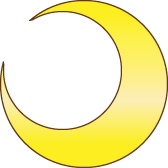
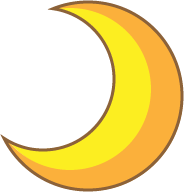
1. Change to Angular Material 2. Modify img 3. Beautify form

diff --git a/frontend/src/app/weddingform/weddingform.component.html b/frontend/src/app/weddingform/weddingform.component.html
@@ -1,22 +1,26 @@
 <div class="wedding-form">
+  <div class="sun"></div>
   <form [formGroup]="weddingForm" (ngSubmit)="submitForm()">
     <!-- {{weddingForm.value | json }} -->
-    <h2>璟鴻與毓柔婚宴出席調查</h2>
+    <h2 class="title">婚宴出席調查</h2>
 
     <div>
-      <mat-form-field class="example-full-width">
+      <mat-form-field class="input-width">
         <input matInput placeholder="請填姓名(全名)" formControlName="name">
         <mat-error *ngIf="!weddingForm.get('name').valid && weddingForm.get('name').touched">'請填寫姓名(全名)'</mat-error>
       </mat-form-field>
     </div>
+
+    <div class="letter" *ngIf="_hasMessage">{{_nameBonusMessage}}</div>
+
     <div>
-      <mat-form-field class="example-full-width">
+      <mat-form-field class="input-width">
         <input matInput placeholder="請填連絡電話" formControlName="phone">
         <mat-error *ngIf="!weddingForm.get('phone').valid && weddingForm.get('phone').touched">'請填連絡電話'</mat-error>
       </mat-form-field>
     </div>
     <div>
-      <mat-form-field>
+      <mat-form-field class="input-width">
         <mat-select placeholder="哪方親友" formControlName="known_from">
           <mat-option [value]="'male'">男方親友</mat-option>
           <mat-option [value]="'female'">女方親友</mat-option>
@@ -26,7 +30,7 @@
     </div>
 
     <div>
-      <mat-form-field>
+      <mat-form-field class="input-width">
         <mat-select placeholder="出席狀態" formControlName="attend">
           <mat-option [value]="'taipei'">台北場 3/24</mat-option>
           <mat-option [value]="'chaiyi'">嘉義場 4/21</mat-option>
@@ -39,7 +43,7 @@
     </div>
 
     <div>
-      <mat-form-field>
+      <mat-form-field class="input-width">
         <mat-select placeholder="出席人數" formControlName="number_of_people">
           <mat-option *ngFor="let numAttend of numAttends" [value]="numAttend">
             {{numAttend}}
@@ -50,10 +54,10 @@
     </div>
 
     <div>
-      <mat-form-field>
+      <mat-form-field class="input-width">
         <mat-select placeholder="有幾位吃素" formControlName="number_of_vegetarian">
-          <mat-option *ngFor="let numAttend of numAttends" [value]="numAttend">
-            {{numAttend}}
+          <mat-option *ngFor="let numVeg of numVegs" [value]="numVeg">
+            {{numVeg}}
           </mat-option>
         </mat-select>
         <mat-error *ngIf="!weddingForm.get('number_of_vegetarian').valid && weddingForm.get('number_of_vegetarian').touched">請選擇任一項</mat-error>
@@ -61,40 +65,42 @@
     </div>
 
     <div>
-      <mat-form-field>
+      <mat-form-field class="input-width">
         <mat-select placeholder="兒童座椅數量" formControlName="number_of_baby_seat">
-          <mat-option *ngFor="let numAttend of numAttends" [value]="numAttend">
-            {{numAttend}}
+          <mat-option *ngFor="let numBaby of numBabys" [value]="numBaby">
+            {{numBaby}}
           </mat-option>
         </mat-select>
         <mat-error *ngIf="!weddingForm.get('number_of_baby_seat').valid && weddingForm.get('number_of_baby_seat').touched">請選擇任一項</mat-error>
       </mat-form-field>
     </div>
 
-    <div class="required field-area">
-      <label>喜帖方式：</label>
-      <span class="radio-group">
-        <label><input type="radio" name="invitation" value="email" (click)="setInvitation('email')" checked>電子喜帖</label>
-        <label><input type="radio" name="invitation" value="address" (click)="setInvitation('address')">紙本喜帖</label>
-        <label><input type="radio" name="invitation" value="sendBoth" (click)="setInvitation('sendBoth')">兩種都要</label>
-      </span>
-    </div>
-
     <div>
-      <mat-form-field class="example-full-width">
+        <mat-form-field class="input-width">
+          <mat-select placeholder="喜帖型式" formControlName="way">
+            <mat-option [value]="'email'">電子喜帖</mat-option>
+            <mat-option [value]="'address'">紙本喜帖</mat-option>
+            <mat-option [value]="'sendBoth'">兩種都要</mat-option>
+          </mat-select>
+          <mat-error *ngIf="!weddingForm.get('way').valid && weddingForm.get('way').touched">請選擇任一項</mat-error>
+        </mat-form-field>
+      </div>
+
+    <div *ngIf="isShow('address')">
+      <mat-form-field class="input-width">
         <input matInput placeholder="請填喜帖地址" formControlName="address">
         <mat-error *ngIf="!weddingForm.get('address').valid && weddingForm.get('address').touched">'請填收帖地址'</mat-error>
       </mat-form-field>
     </div>
 
-    <div>
-      <mat-form-field class="example-full-width">
+    <div *ngIf="isShow('email')">
+      <mat-form-field class="input-width">
         <input matInput placeholder="請填E-mail" formControlName="email">
         <mat-error *ngIf="!weddingForm.get('email').valid && weddingForm.get('email').touched">'請填E-MAIL'</mat-error>
       </mat-form-field>
     </div>
 
-    <mat-form-field class="example-full-width">
+    <mat-form-field class="input-width">
       <textarea matInput placeholder="想跟毓柔和璟鴻說" class="note" formControlName="note"></textarea>
     </mat-form-field>
   </form>

diff --git a/frontend/src/styles.scss b/frontend/src/styles.scss
@@ -19,20 +19,31 @@ label {
   content: '*';
 }
 
-/* The container */
 
-.container__checkbox {
-  display: block;
+/* Loading dropdown animation */
+.loading-dropdown .select-wrapper .content{
   position: relative;
-  padding-left: 20px;
-  margin-bottom: 12px;
-  cursor: pointer;
+  &::after{
+    content: '';
+    position: absolute;
+    right: 45px;
+    top: 0;
+    width: 44px;
+    background-size: 44px 44px;
+    background-repeat: no-repeat;
+    background-position: 50% 50%;
+    background-image: url(/assets/img/spinner.gif);
+    height: 44px;
+    z-index: 2;
+  }
+}
+
+option {
   font-size: 14px;
-  font-family: Helvetica;
-  -webkit-user-select: none;
-  -moz-user-select: none;
-  -ms-user-select: none;
-  user-select: none;
+  line-height: 36px;
+  &:hover {
+    background-color: red;
+  }
 }
 
 
@@ -53,7 +64,6 @@ label {
 }
 
 /* Hide the browser's default radio button */
-
 .container__radio input[type=radio] {
   position: absolute;
   opacity: 0;
@@ -61,7 +71,6 @@ label {
 }
 
 /* Create a custom radio button */
-
 .checkmark__radio {
   position: absolute;
   top: 0;
@@ -99,11 +108,11 @@ label {
 
 .field-area {
     display: flex;
-    padding: 5px 0px;
+    height: 50px;
     font-size: 16px;
-    width: 100%;
-    justify-content: space-between;
+    width: 600px;
     align-content: center;
+    font-family: 'Diplomata SC', cursive;
   }
 
   .wedding-form{
@@ -112,24 +121,44 @@ label {
     align-items: center;
   }
 
+  .main-btn {
+    cursor: pointer;
+    color: white;
+    width: 160px;
+    height: 48px;
+    font-size: 16px;
+    font-weight: bold;
+    padding: 0.5rem;
+    margin: 0.2rem;
+    border: none;
+    background: $primary-color;
+    box-shadow: 2px 3px 1px rgb(230, 230, 230);
+    &:hover {
+        background: $primary-color--hover;
+    }
+    &:active {
+        box-shadow: 2px 0px 5px rgb(66, 65, 65) inset;
+        background: $primary-color--active;
+    }
+  }
+
   @media screen and (max-width:767px){
+    form{
+      display: flex;
+      flex-direction: column;
+      align-items: center;
+    }
+
+    h2{
+      margin-top: 100px;
+    }
+
     .field-area {
       font-size: 16px;
-      justify-content: space-between;
+      width: 85%;
     }
 
     label {
-      width: 46%;
-      min-width: 120px;
-    }
-    select, input:not([type=radio]):not([type=checkbox]) {
-      width: 40%;
-      min-width: 100px;
-    }
-    radio-group {
-      width: 50%;
-      label{
-        width: 110px;
-      }
+      width: 135px;
     }
  }

diff --git a/frontend/src/app/app.module.ts b/frontend/src/app/app.module.ts
@@ -1,4 +1,3 @@
-import { MatFormFieldModule } from '@angular/material/form-field';
 import { BrowserModule } from '@angular/platform-browser';
 import { NgModule } from '@angular/core';
 
@@ -8,34 +7,31 @@ import { ReactiveFormsModule, FormsModule } from '@angular/forms';
 import { WeddingphotoComponent } from './weddingphoto/weddingphoto.component';
 import { WeddingService } from './wedding.service';
 import { HttpClientModule } from '@angular/common/http';
-
 import {BrowserAnimationsModule} from '@angular/platform-browser/animations';
-import {MatCheckboxModule} from '@angular/material/checkbox';
-import {MatSelectModule} from '@angular/material/select';
+import {MatButtonModule, MatCheckboxModule} from '@angular/material';
 import {MatInputModule} from '@angular/material/input';
-import { ErrorStateMatcher, ShowOnDirtyErrorStateMatcher } from '@angular/material/core';
+import {MatSelectModule} from '@angular/material/select';
+import {MatFormFieldModule} from '@angular/material/form-field';
 
 @NgModule({
   declarations: [
     AppComponent,
     WeddingformComponent,
-    WeddingphotoComponent,
+    WeddingphotoComponent
   ],
   imports: [
     BrowserModule,
+    BrowserAnimationsModule,
     HttpClientModule,
     FormsModule,
     ReactiveFormsModule,
-    BrowserAnimationsModule,
-    MatFormFieldModule,
+    MatButtonModule,
     MatCheckboxModule,
     MatInputModule,
     MatSelectModule,
-
+    MatFormFieldModule
   ],
-  providers: [WeddingService ,
-    {provide: ErrorStateMatcher, useClass: ShowOnDirtyErrorStateMatcher}
-  ],
+  providers: [WeddingService],
   bootstrap: [AppComponent]
 })
 export class AppModule { }

diff --git a/frontend/src/app/weddingform/weddingform.component.ts b/frontend/src/app/weddingform/weddingform.component.ts
@@ -15,10 +15,11 @@ export class WeddingformComponent implements OnInit {
     private weddingService: WeddingService,
   ) { }
 
-  numAttends = [0, 1, 2, 3, 4, 5, 6, 7, 8, 9, 10];
+  numAttends = Array.from({length: 10}, (v, k) => k + 1);
+  numVegs =  Array.from({length: 5}, (v, k) => k );
+  numBabys =  Array.from({length: 5}, (v, k) => k );
   _hasMessage = false;
   _nameBonusMessage;
-  _invitation = 'email';
 
   weddingForm = this.fb.group({
     name: ['', Validators.required],
@@ -31,7 +32,8 @@ export class WeddingformComponent implements OnInit {
     phone: ['', Validators.required],
     address: '',
     email: '',
-    note: ''
+    note: '',
+    way: ['', Validators.required],
   });
 
 
@@ -65,17 +67,11 @@ export class WeddingformComponent implements OnInit {
     console.log();
   }
 
-  setInvitation(invitation) {
-    this._invitation = invitation;
-    if (invitation === 'address') {
-      this.weddingForm.get('phone').reset();
-    } else if (invitation === 'phone') {
-      this.weddingForm.get('address').reset();
-    }
-  }
 
-  isShow(invitation) {
-    if (this._invitation === 'sendBoth' || this._invitation === invitation) {
+  isShow(invitationWay) {
+    console.log(invitationWay);
+    const way = this.weddingForm.get('way').value;
+    if (way === 'sendBoth' || way === invitationWay) {
       return true;
     } else {
       return false;

diff --git a/frontend/src/app/weddingform/weddingform.component.scss b/frontend/src/app/weddingform/weddingform.component.scss
@@ -1,5 +1,5 @@
 @import "src/styles.scss";
-$form-border:3px solid rgb(235, 218, 72);
+$form-border:3px solid #ad8b63;
 
 .letter {
   position: relative;
@@ -10,18 +10,29 @@ $form-border:3px solid rgb(235, 218, 72);
     margin: 0px 35px 15px 15px;
 }
 
-.full-width{
+.input-width{
   width: 95%;
 }
 
 
 form {
   border: $form-border;
+  box-shadow: 0px 0px 20px #65472b inset;
   border-radius: 15px;
   padding: 25px 15px 95px 15px;
   margin: 5px;
   width: 75%;
   max-width: 670px;
+  background-color: seashell;
+  color: #333;
+}
+
+.sun{
+  width: 300px;
+  height: 200px;
+  position: absolute;
+  background-image: url(../../assets/sun.png);
+  background-repeat: no-repeat;
 }
 
 .moon {
